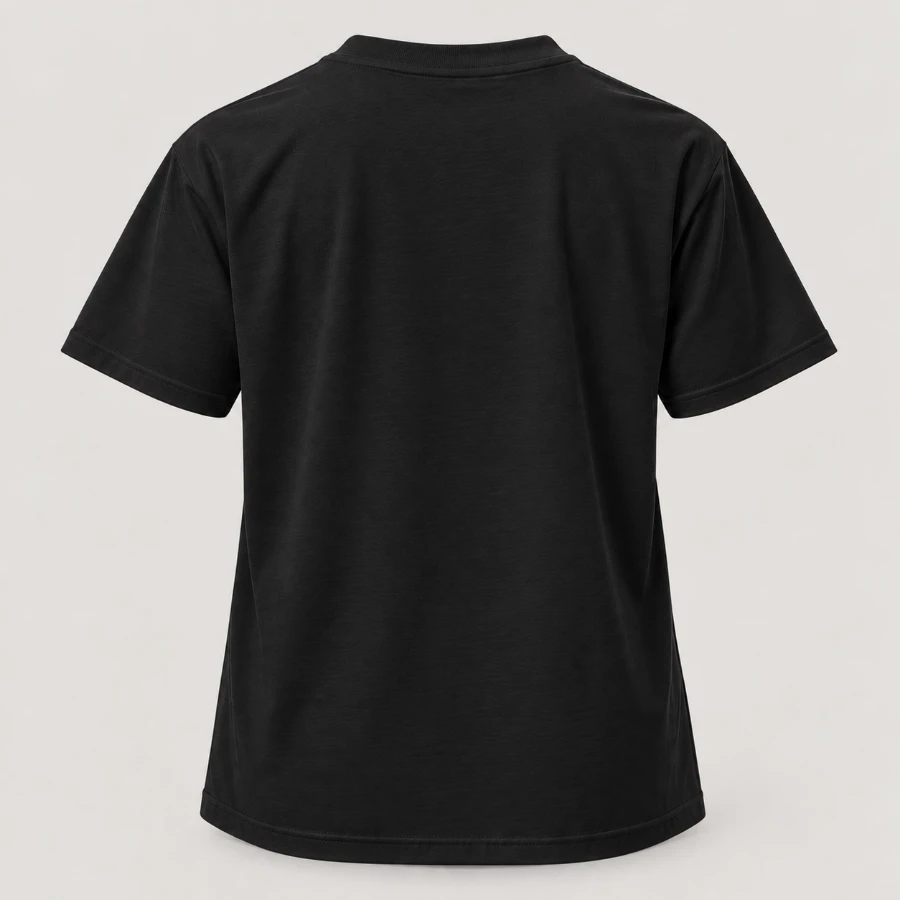
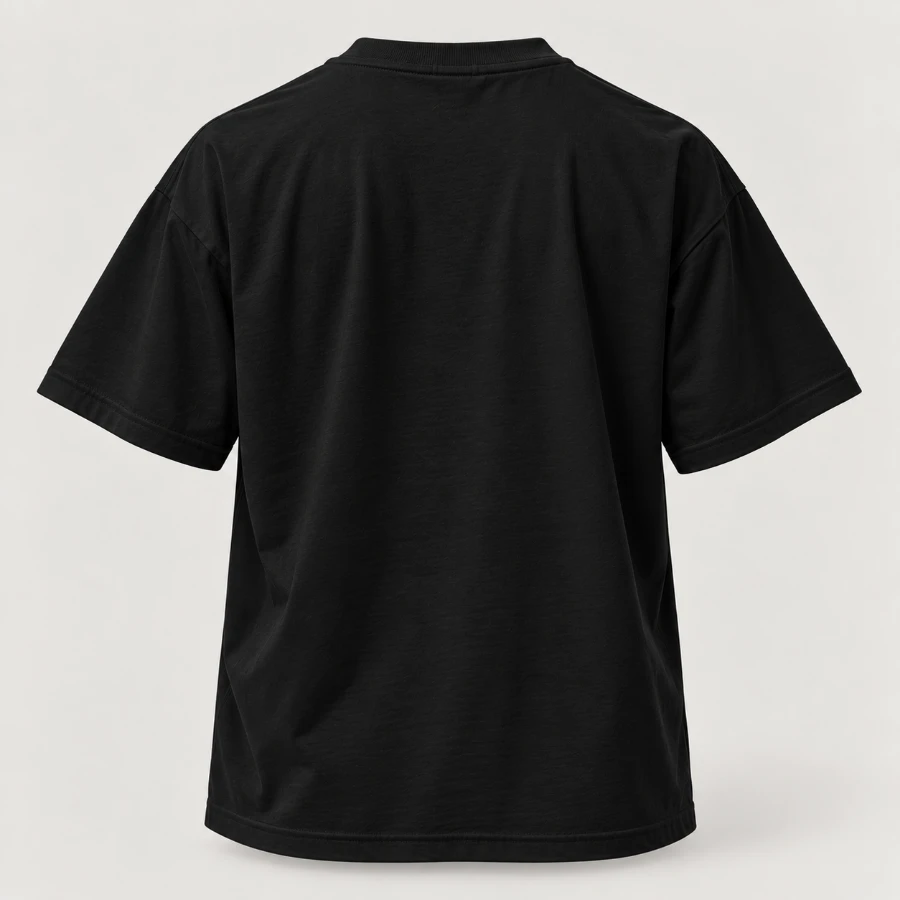
T-shirts: new relaxed-cut photos
Claude-Session: https://claude.ai/code/session_019xa6L3VDLUS6Spv4RoBBK9

diff --git a/components/ProductArt.tsx b/components/ProductArt.tsx
@@ -248,9 +248,9 @@ const photo = (
 // Product-only photos (no people). Items without one fall back to the drawing.
 const PHOTOS: Record<string, Photo | Photo[]> = {
   // T-shirts, on the light grey studio background of the photos
-  'tee:#1b1b1b': [photo('t-tee-black-m', 900, 900, 450, 290, 370, 290)],
-  'tee:#f4f4f0': [photo('t-tee-white-m', 900, 900, 450, 290, 370, 290)],
-  'tee:#e8f525': [photo('t-tee-yellow-m', 900, 900, 450, 290, 370, 290)],
+  'tee:#1b1b1b': [photo('t-tee-black-m', 900, 900, 450, 300, 400, 300)],
+  'tee:#f4f4f0': [photo('t-tee-white-m', 900, 900, 450, 300, 400, 300)],
+  'tee:#e8f525': [photo('t-tee-yellow-m', 900, 900, 450, 300, 400, 300)],
   'tee:#1b1b1b:w': [photo('t-tee-black-w', 900, 900, 450, 300, 320, 280)],
   'tee:#f4f4f0:w': [photo('t-tee-white-w', 900, 900, 450, 300, 320, 280)],
   'tee:#e8f525:w': [photo('t-tee-yellow-w', 900, 900, 450, 300, 320, 280)],
